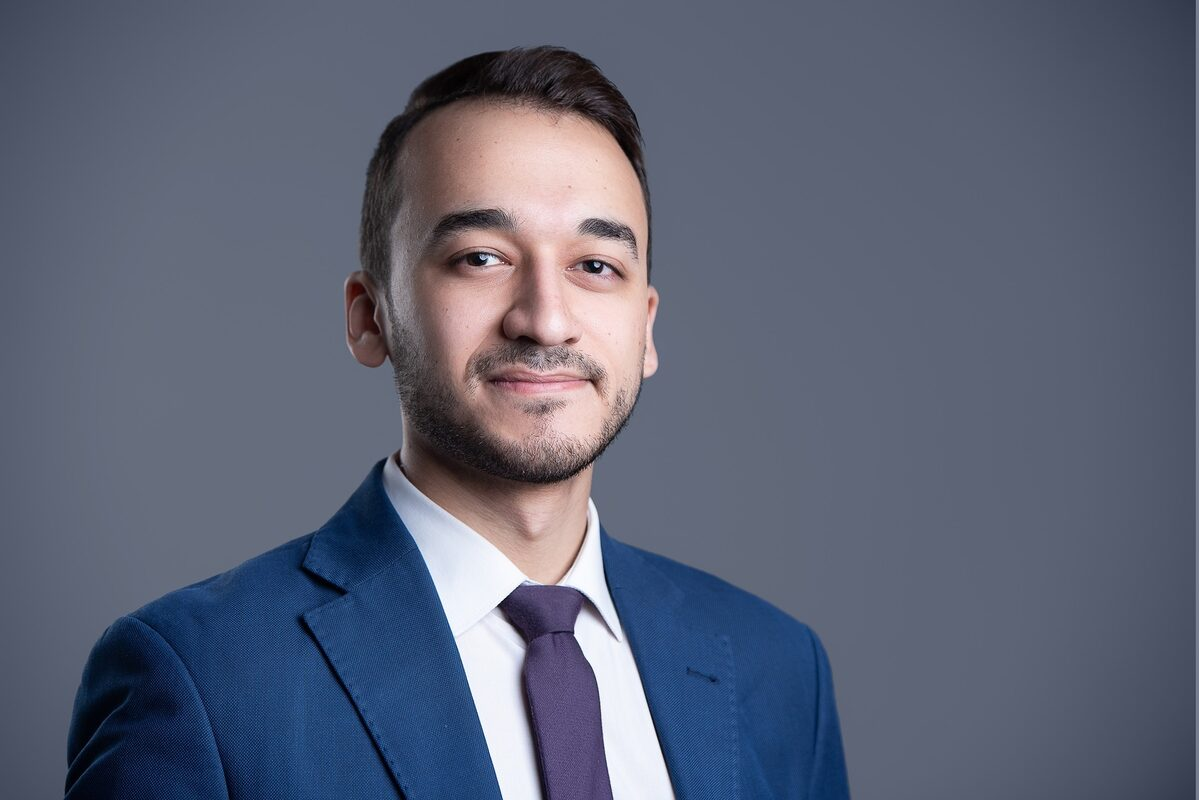
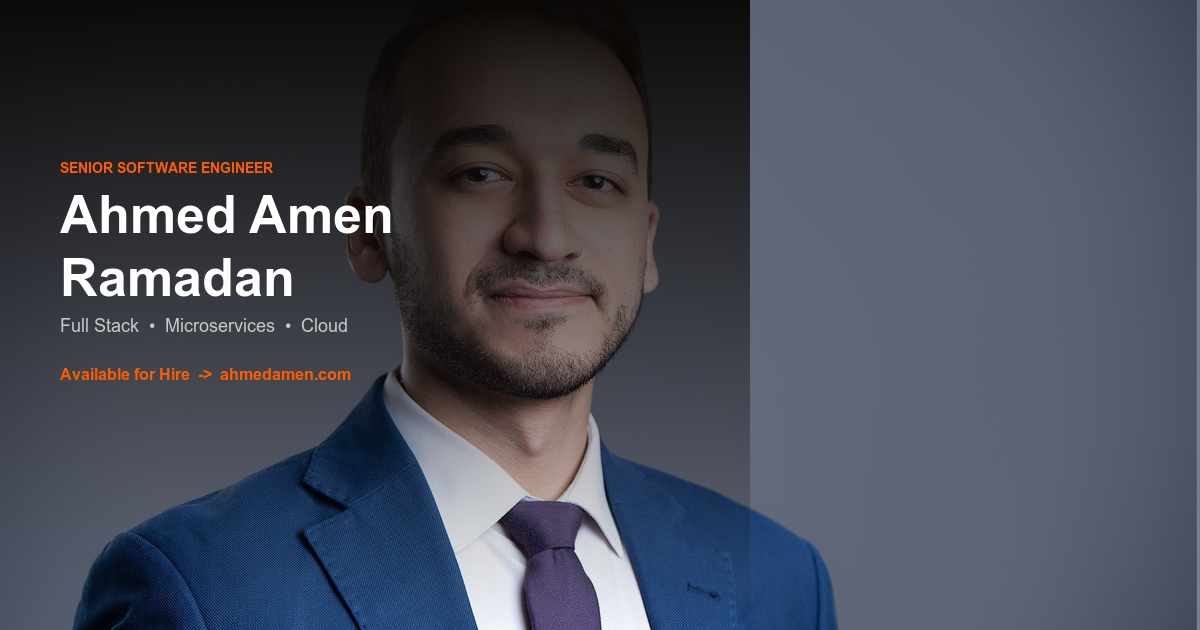
Update SEO settings: add Open Graph title and description for improved social sharing

diff --git a/_layouts/default.html b/_layouts/default.html
@@ -20,14 +20,14 @@
   <meta property="og:type" content="website" />
   <meta property="og:url" content="{{ page.url | absolute_url }}" />
   <meta property="og:title"
-    content="{% if page.title %}{{ page.title }} | {{ site.title }}{% else %}{{ site.title }}{% endif %}" />
+    content="{% if page.og_title %}{{ page.og_title }}{% elsif page.title %}{{ page.title }}{% else %}{{ site.og_title }}{% endif %}" />
   <meta property="og:description"
-    content="{% if page.description %}{{ page.description }}{% else %}{{ site.description }}{% endif %}" />
+    content="{% if page.og_description %}{{ page.og_description }}{% elsif page.description %}{{ page.description }}{% else %}{{ site.og_description }}{% endif %}" />
   <meta property="og:image" content="{{ '/assets/me-og.jpg' | absolute_url }}" />
   <meta property="og:image:alt" content="{{ site.author }}" />
   <meta property="og:image:type" content="image/jpeg" />
   <meta property="og:image:width" content="1200" />
-  <meta property="og:image:height" content="800" />
+  <meta property="og:image:height" content="630" />
   <meta property="og:site_name" content="{{ site.author }}" />
   <meta property="og:locale" content="en_US" />
 
@@ -35,9 +35,9 @@
   <meta property="twitter:card" content="summary_large_image" />
   <meta property="twitter:url" content="{{ page.url | absolute_url }}" />
   <meta property="twitter:title"
-    content="{% if page.title %}{{ page.title }} | {{ site.title }}{% else %}{{ site.title }}{% endif %}" />
+    content="{% if page.og_title %}{{ page.og_title }}{% elsif page.title %}{{ page.title }}{% else %}{{ site.og_title }}{% endif %}" />
   <meta property="twitter:description"
-    content="{% if page.description %}{{ page.description }}{% else %}{{ site.description }}{% endif %}" />
+    content="{% if page.og_description %}{{ page.og_description }}{% elsif page.description %}{{ page.description }}{% else %}{{ site.og_description }}{% endif %}" />
   <meta property="twitter:image" content="{{ '/assets/me-og.jpg' | absolute_url }}" />
   <meta property="twitter:image:alt" content="{{ site.author }}" />
 
